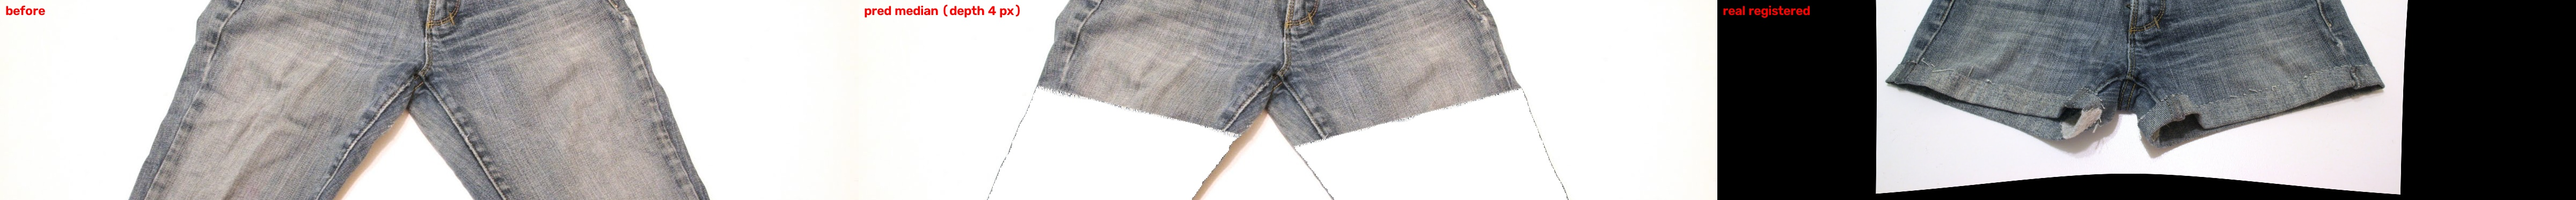
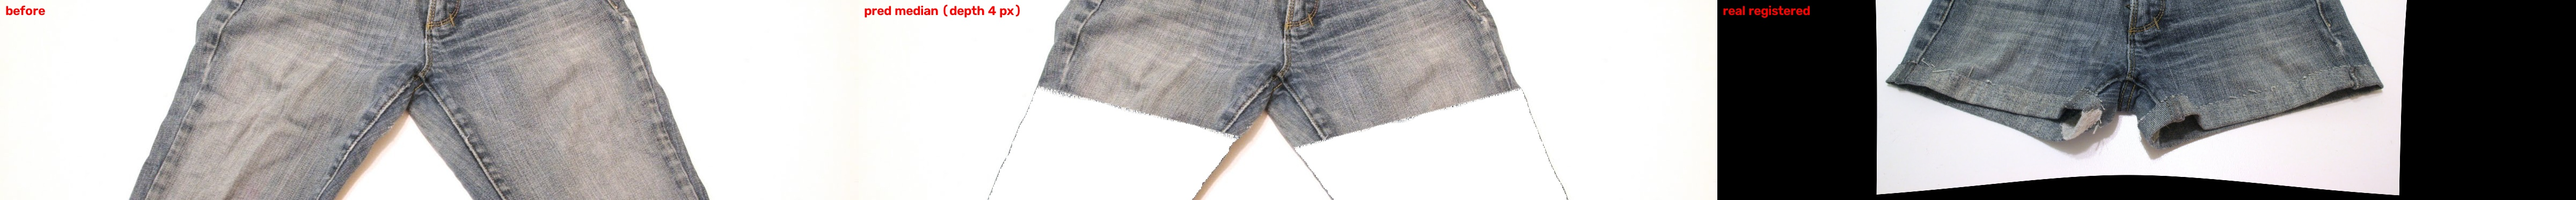
coarse garment pick: denim-colour prior + more prompt sets (busy rugs)

diff --git a/src/denimtwin/seg/sam.py b/src/denimtwin/seg/sam.py
@@ -70,14 +70,18 @@ def segment_garment_coarse(seg, image_bgr, max_side=1024):
     small = cv2.resize(image_bgr, None, fx=s, fy=s) if s < 1 else image_bgr
     seg.predictor.set_image(cv2.cvtColor(small, cv2.COLOR_BGR2RGB))
     cands = []
-    prompt_sets = [np.array([[0.5, 0.4]]), np.array([[0.5, 0.35], [0.4, 0.6], [0.6, 0.6]]), np.array([[0.5, 0.5]]), np.array([[0.5, 0.3], [0.5, 0.7]])]
+    hsv = cv2.cvtColor(small, cv2.COLOR_BGR2HSV)
+    denimish = ((hsv[..., 0] >= 95) & (hsv[..., 0] <= 135) & (hsv[..., 1] >= 40)) | (hsv[..., 2] < 60)   # blue denim or black/dark denim
+    prompt_sets = [np.array([[0.5, 0.4]]), np.array([[0.5, 0.35], [0.4, 0.6], [0.6, 0.6]]), np.array([[0.5, 0.5]]), np.array([[0.5, 0.3], [0.5, 0.7]]),
+                   np.array([[0.35, 0.5], [0.65, 0.5]]), np.array([[0.5, 0.25]])]
     for pts in prompt_sets:
         pc = pts * np.array([small.shape[1], small.shape[0]])
         masks, scores, _ = seg.predictor.predict(point_coords=pc, point_labels=np.ones(len(pc)), multimask_output=True)
         for m, sc in zip(masks, scores):
             area = m.mean(); bf = _border_frac(m)
-            if not (0.05 <= area <= 0.70): continue
-            cands.append((float(sc) - 2.0 * bf - 0.3 * max(0, area - 0.5), m, float(sc), area, bf))
+            if not (0.03 <= area <= 0.70): continue
+            dn = float(denimish[m].mean())                     # soft prior: a garment mask should be mostly denim-coloured
+            cands.append((float(sc) - 2.0 * bf - 0.3 * max(0, area - 0.5) + 0.8 * dn, m, float(sc), area, bf))
     if not cands: return None, 0.0, {}
     best = max(cands, key=lambda c: c[0]); m = best[1].astype(np.uint8) * 255
     m = cv2.morphologyEx(m, cv2.MORPH_CLOSE, np.ones((7, 7), np.uint8))

diff --git a/experiments/pairs/SUMMARY.md b/experiments/pairs/SUMMARY.md
@@ -2,15 +2,15 @@
 
 | page | title | after | status | sil IoU pred / crop / no-op | chamfer px pred / crop | edge ΔE pred / crop | fringe IoU pred / no-op |
 |---|---|---|---|---|---|---|---|
-| b630a78c19 | How To Make Jeans Into Shorts The Easy W | after_cut | ok | 0.56 / 0.56 / 0.53 | 242 / 244 | 16.0 / 16.0 | 0.22 / 0.17 |
+| b630a78c19 | How To Make Jeans Into Shorts The Easy W | after_cut | ok | 0.46 / 0.46 / 0.54 | 363 / 368 | 17.5 / 17.4 | 0.02 / 0.58 |
 | 660bef67bf | Cómo hacer shorts con jeans viejos | after_cut | FAIL: REJECT: after: garment touches the frame edge (cropped photo | | | | |
 | 85d48013a2 | Tutorial: Aus Lang mach Kurz – Jeanshose | after_cut | FAIL: REJECT: after: garment touches the frame edge (cropped photo | | | | |
 | 4bfef03bd7 | DIY Denim Shorts | Thrifted Jeans Into S | after_wash | ok | 0.77 / 0.75 / 0.29 | 17 / 22 | 22.9 / 23.3 | 0.26 / 0.04 |
 | ee4bf13a3c | Magnolia Mamas: Fashion Fix: DIY Distres | after_wash | FAIL: REJECT: before image is not full-length jeans (aspect says s | | | | |
-| 8d9f0df4ad | This summer's DIY cut-off jeans shorts-- | after_cut | ok | 0.94 / 0.94 / 0.42 | 8 / 9 | 22.1 / 22.3 | 0.11 / 0.02 |
-| 963fcdd264 | DIY; Mom Jeans to High Waisted Shorts |  | after_cut | FAIL: REJECT: after: garment touches the frame edge (cropped photo | | | | |
-| d52a3ff876 | Under Peach Trees: D.I.Y. Jeans to Short | after_cut | FAIL: REJECT: degenerate cut: removed fraction 0.00 | | | | |
-| 443d1d4658 | Create Kids Couture: Upcycle Old Jeans i | after_cut | ok | 0.92 / 0.92 / 0.59 | 15 / 14 | 13.2 / 13.0 | 0.21 / 0.01 |
+| 8d9f0df4ad | This summer's DIY cut-off jeans shorts-- | after_cut | ok | 0.94 / 0.94 / 0.42 | 8 / 9 | 21.4 / 21.5 | 0.11 / 0.02 |
+| 963fcdd264 | DIY; Mom Jeans to High Waisted Shorts |  | after_cut | FAIL: REJECT: before: widest top row is not a single waistband run | | | | |
+| d52a3ff876 | Under Peach Trees: D.I.Y. Jeans to Short | after_cut | FAIL: REJECT: before: widest top row is not a single waistband run | | | | |
+| 443d1d4658 | Create Kids Couture: Upcycle Old Jeans i | after_cut | ok | 0.92 / 0.92 / 0.59 | 14 / 14 | 13.2 / 13.0 | 0.14 / 0.00 |
 | 3082dfddc1 | DIY style: perfectly distressed jean sho | after_wash | FAIL: REJECT: degenerate cut: removed fraction 0.88 | | | | |
 | 22a5857a0c | Comment transformer son jeans en short - | after_cut | FAIL: REJECT: after: garment touches the frame edge (cropped photo | | | | |
 | f9c0e56308 | 7 Easy Steps to: DIY Denim Shorts - 51li | after_wash | FAIL: REJECT: degenerate cut: removed fraction 0.76 | | | | |

diff --git a/experiments/pairs/REPORT.md b/experiments/pairs/REPORT.md
@@ -2,16 +2,16 @@
 
 | pair | reg resid | sil_iou_vs_real pred / crop / no-op | hem_chamfer pred / crop / no-op | dE_edge_band_vs_real pred / crop / no-op | fringe_iou_vs_real pred / crop / no-op | fringe_profile_dist pred / crop / no-op |
 |---|---|---|---|---|---|---|
-| 443d1d4658 | 7.3 | 0.92 / 0.92 / 0.59 | 14.73 / 13.59 / 194.38 | 13.25 / 13.00 / 17.61 | 0.21 / 0.00 / 0.01 | 0.00 / 0.00 / 1.00 |
+| 443d1d4658 | 6.4 | 0.92 / 0.92 / 0.59 | 14.36 / 13.76 / 195.04 | 13.20 / 13.05 / 17.61 | 0.14 / 0.00 / 0.00 | 0.00 / 0.00 / 1.00 |
 | 4bfef03bd7 | 42.0 | 0.77 / 0.75 / 0.29 | 16.83 / 21.99 / 503.38 | 22.92 / 23.33 / 20.45 | 0.26 / 0.00 / 0.04 | 0.02 / 0.03 / 0.97 |
-| 8d9f0df4ad | 31.3 | 0.94 / 0.94 / 0.42 | 8.26 / 8.86 / 303.19 | 22.13 / 22.26 / 23.19 | 0.11 / 0.00 / 0.02 | 0.01 / 0.01 / 0.99 |
-| b630a78c19 | 711.7 | 0.56 / 0.56 / 0.53 | 242.15 / 244.21 / 295.90 | 16.01 / 16.04 / 15.06 | 0.22 / 0.00 / 0.17 | 0.11 / 0.17 / 0.83 |
+| 8d9f0df4ad | 31.2 | 0.94 / 0.94 / 0.42 | 8.08 / 8.66 / 303.39 | 21.42 / 21.53 / 22.66 | 0.11 / 0.00 / 0.02 | 0.01 / 0.01 / 0.99 |
+| b630a78c19 | 698.7 | 0.46 / 0.46 / 0.54 | 363.33 / 367.66 / 296.25 | 17.48 / 17.42 / 16.36 | 0.02 / 0.00 / 0.58 | 0.62 / 0.63 / 0.37 |
 
 ## Means and prediction − crop-only deltas
-- sil_iou_vs_real: pred 0.796, crop 0.791, Δ +0.005 (n=4)
-- hem_chamfer: pred 70.494, crop 72.163, Δ -1.670 (n=4)
-- dE_edge_band_vs_real: pred 18.575, crop 18.655, Δ -0.080 (n=4)
-- fringe_iou_vs_real: pred 0.200, crop 0.000, Δ +0.200 (n=4)
-- fringe_profile_dist: pred 0.036, crop 0.053, Δ -0.017 (n=4)
+- sil_iou_vs_real: pred 0.772, crop 0.768, Δ +0.004 (n=4)
+- hem_chamfer: pred 100.649, crop 103.016, Δ -2.367 (n=4)
+- dE_edge_band_vs_real: pred 18.752, crop 18.833, Δ -0.081 (n=4)
+- fringe_iou_vs_real: pred 0.133, crop 0.000, Δ +0.133 (n=4)
+- fringe_profile_dist: pred 0.162, crop 0.170, Δ -0.008 (n=4)
 
 Rule: heuristic thresholds (hemfit/autolm) change only with n >= 5 and this table attached.

diff --git a/experiments/pairs/b630a78c19/NOTE.md b/experiments/pairs/b630a78c19/NOTE.md
@@ -5,14 +5,14 @@ before: /Users/jefferyhuang/denim-twin/data/external/pair_images/b630a78c19_befo
 after: /Users/jefferyhuang/denim-twin/data/external/pair_images/b630a78c19_after_cut_c7a4d702.jpg 
 scale: UNKNOWN (1.0 placeholder; mm values are px)
 landmarks: auto / auto (crotch: gap / gap)
-fringe depth used: 60.2 px from measured from after-photo (NOT a prediction); measured on after-photo: 60.2 px (fabric/fringe split: SAM)
-hem fit: left: angle -0.8°, depth 5, right: angle 72.4°, depth 116
-registration residual (leave-one-landmark-out): 52.04px
+fringe depth used: 30.8 px from measured from after-photo (NOT a prediction); measured on after-photo: 30.8 px (fabric/fringe split: SAM)
+hem fit: left: angle -0.7°, depth 6, right: angle -20.2°, depth 56
+registration residual (leave-one-landmark-out): 41.30px
 
 | system | sil IoU | chamfer | edge ΔE | fringe IoU |
 |---|---|---|---|---|
-| pred conservative | 0.557 | 243.2 | 16.0 | 0.099 |
-| pred median | 0.558 | 242.2 | 16.0 | 0.217 |
-| pred aggressive | 0.559 | 241.5 | 16.0 | 0.302 |
-| null:no-op | 0.534 | 295.9 | 15.1 | 0.173 |
-| null:crop-only | 0.556 | 244.2 | 16.0 | 0.000 |
+| pred conservative | 0.459 | 366.0 | 17.4 | 0.007 |
+| pred median | 0.460 | 363.3 | 17.5 | 0.017 |
+| pred aggressive | 0.460 | 360.9 | 17.5 | 0.026 |
+| null:no-op | 0.536 | 296.2 | 16.4 | 0.582 |
+| null:crop-only | 0.459 | 367.7 | 17.4 | 0.000 |

diff --git a/experiments/pairs/443d1d4658/NOTE.md b/experiments/pairs/443d1d4658/NOTE.md
@@ -5,14 +5,14 @@ before: /Users/jefferyhuang/denim-twin/data/external/pair_images/443d1d4658_befo
 after: /Users/jefferyhuang/denim-twin/experiments/pairs/443d1d4658/cropped_after_cut.png 
 scale: UNKNOWN (1.0 placeholder; mm values are px)
 landmarks: auto / auto (crotch: gap / gap)
-fringe depth used: 12.2 px from measured from after-photo (NOT a prediction); measured on after-photo: 12.2 px (fabric/fringe split: colour split)
-hem fit: left: angle 10.7°, depth 22, right: angle -11.6°, depth 3
-registration residual (leave-one-landmark-out): 7.26px
+fringe depth used: 7.8 px from measured from after-photo (NOT a prediction); measured on after-photo: 7.8 px (fabric/fringe split: colour split)
+hem fit: left: angle 11.4°, depth 14, right: angle -11.3°, depth 2
+registration residual (leave-one-landmark-out): 6.42px
 
 | system | sil IoU | chamfer | edge ΔE | fringe IoU |
 |---|---|---|---|---|
-| pred conservative | 0.919 | 13.9 | 13.1 | 0.071 |
-| pred median | 0.917 | 14.7 | 13.2 | 0.214 |
-| pred aggressive | 0.915 | 15.9 | 13.4 | 0.183 |
-| null:no-op | 0.589 | 194.4 | 17.6 | 0.005 |
-| null:crop-only | 0.920 | 13.6 | 13.0 | 0.000 |
+| pred conservative | 0.918 | 13.9 | 13.1 | 0.068 |
+| pred median | 0.917 | 14.4 | 13.2 | 0.141 |
+| pred aggressive | 0.915 | 15.0 | 13.3 | 0.124 |
+| null:no-op | 0.587 | 195.0 | 17.6 | 0.005 |
+| null:crop-only | 0.918 | 13.8 | 13.0 | 0.000 |

diff --git a/experiments/pairs/8d9f0df4ad/NOTE.md b/experiments/pairs/8d9f0df4ad/NOTE.md
@@ -6,13 +6,13 @@ after: /Users/jefferyhuang/denim-twin/data/external/pair_images/8d9f0df4ad_after
 scale: UNKNOWN (1.0 placeholder; mm values are px)
 landmarks: auto / auto (crotch: gap / gap)
 fringe depth used: 4.0 px from measured from after-photo (NOT a prediction); measured on after-photo: 4.0 px (fabric/fringe split: SAM)
-hem fit: left: angle 13.6°, depth 7, right: angle -14.4°, depth 1
-registration residual (leave-one-landmark-out): 31.25px
+hem fit: left: angle 14.1°, depth 7, right: angle -14.8°, depth 1
+registration residual (leave-one-landmark-out): 31.22px
 
 | system | sil IoU | chamfer | edge ΔE | fringe IoU |
 |---|---|---|---|---|
-| pred conservative | 0.939 | 8.6 | 22.2 | 0.050 |
-| pred median | 0.940 | 8.3 | 22.1 | 0.105 |
-| pred aggressive | 0.940 | 8.2 | 22.1 | 0.155 |
-| null:no-op | 0.419 | 303.2 | 23.2 | 0.016 |
-| null:crop-only | 0.938 | 8.9 | 22.3 | 0.000 |
+| pred conservative | 0.944 | 8.4 | 21.5 | 0.051 |
+| pred median | 0.945 | 8.1 | 21.4 | 0.108 |
+| pred aggressive | 0.945 | 8.1 | 21.4 | 0.159 |
+| null:no-op | 0.421 | 303.4 | 22.7 | 0.015 |
+| null:crop-only | 0.943 | 8.7 | 21.5 | 0.000 |

diff --git a/experiments/pairs/963fcdd264/NOTE.md b/experiments/pairs/963fcdd264/NOTE.md
@@ -1,3 +1,3 @@
 # PAIR — rejected
 
-after: garment touches the frame edge (cropped photo)
+before: widest top row is not a single waistband run (legs-only crop?)

diff --git a/experiments/pairs/d52a3ff876/NOTE.md b/experiments/pairs/d52a3ff876/NOTE.md
@@ -1,3 +1,3 @@
 # PAIR — rejected
 
-degenerate cut: removed fraction 0.00
+before: widest top row is not a single waistband run (legs-only crop?)
